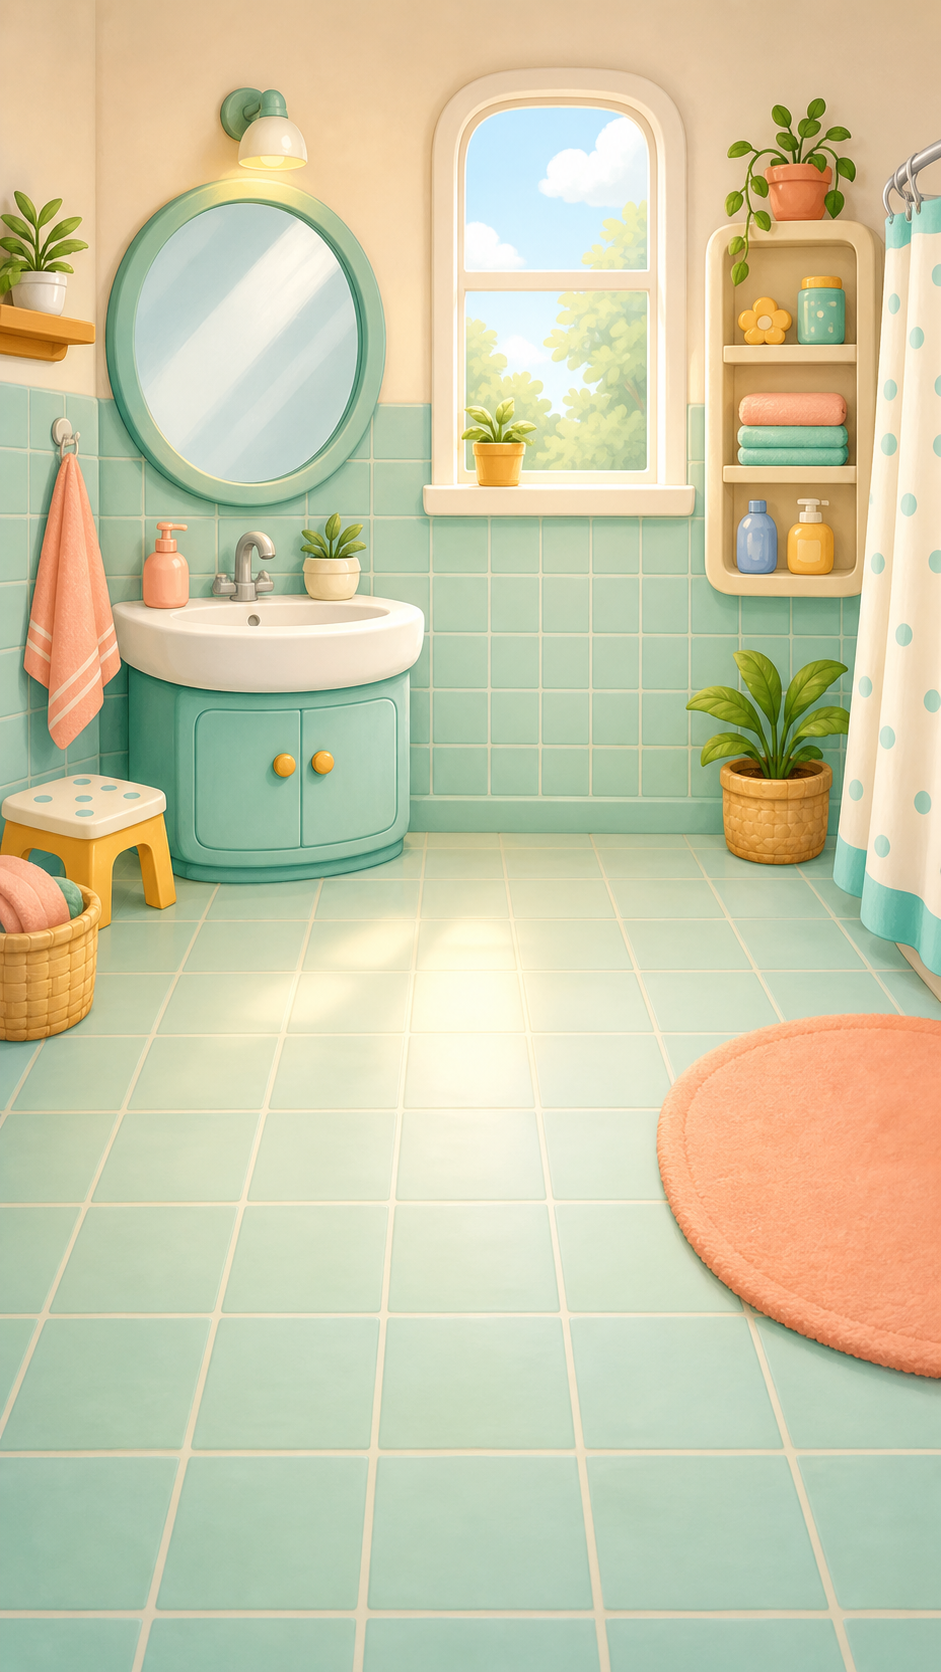
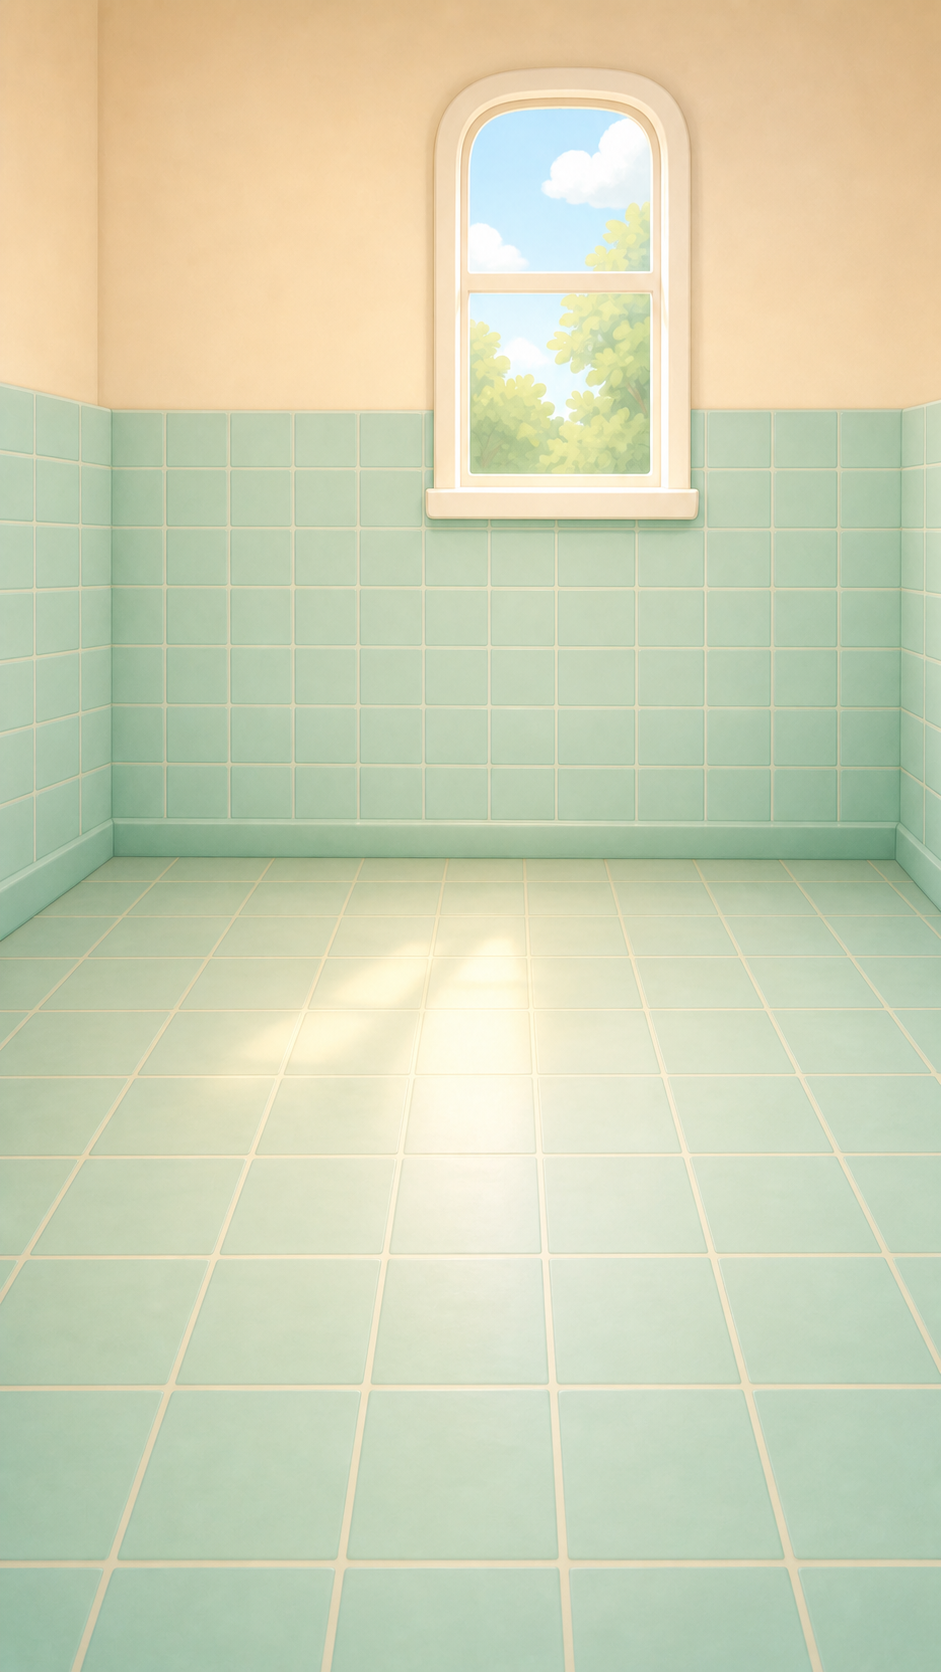
Thêm ảnh cho phòng tắm

diff --git a/src/engine/AssetRegistry.ts b/src/engine/AssetRegistry.ts
@@ -5,7 +5,11 @@ import { getRemoteAssetUrl, remoteAssetsConfig } from '../config/remoteAssets';
 const registry: Record<string, ImageSourcePropType> = {
   'lessons/morning-routine/bathroom/images/baby.png': require('../assets/lessons/morning-routine/bathroom/images/baby.png'),
   'lessons/morning-routine/bathroom/images/background.png': require('../assets/lessons/morning-routine/bathroom/images/background.png'),
+  'lessons/morning-routine/bathroom/images/mirror.png': require('../assets/lessons/morning-routine/bathroom/images/mirror.png'),
+  'lessons/morning-routine/bathroom/images/sink.png': require('../assets/lessons/morning-routine/bathroom/images/sink.png'),
+  'lessons/morning-routine/bathroom/images/soap.png': require('../assets/lessons/morning-routine/bathroom/images/soap.png'),
   'lessons/morning-routine/bathroom/images/toothbrush.png': require('../assets/lessons/morning-routine/bathroom/images/toothbrush.png'),
+  'lessons/morning-routine/bathroom/images/toothpaste.png': require('../assets/lessons/morning-routine/bathroom/images/toothpaste.png'),
   'lessons/morning-routine/bathroom/images/towel.png': require('../assets/lessons/morning-routine/bathroom/images/towel.png'),
   'lessons/morning-routine/bathroom/images/water.png': require('../assets/lessons/morning-routine/bathroom/images/water.png'),
   'lessons/morning-routine/bedroom/images/baby.png': require('../assets/lessons/morning-routine/bedroom/images/baby.png'),
